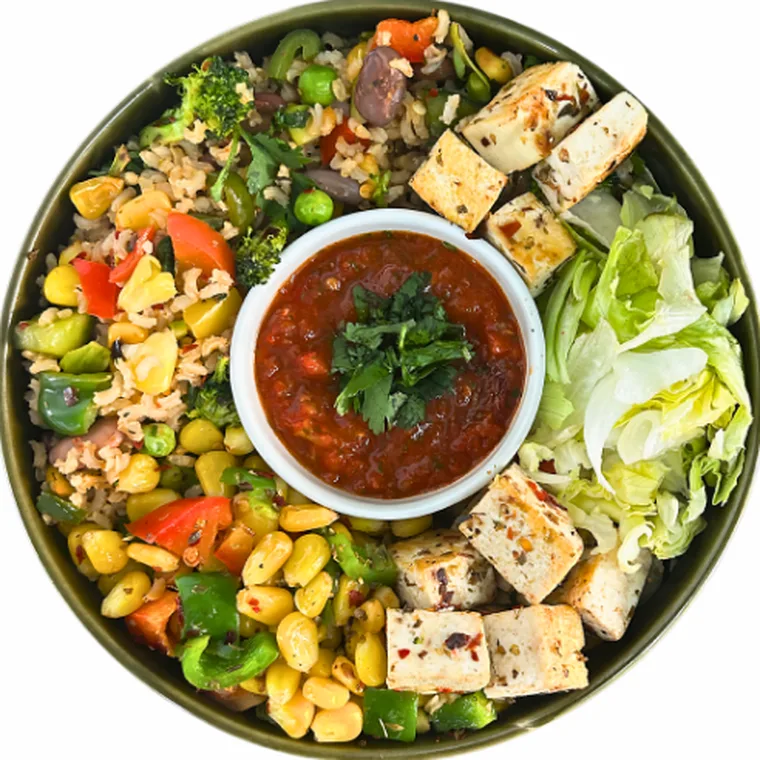
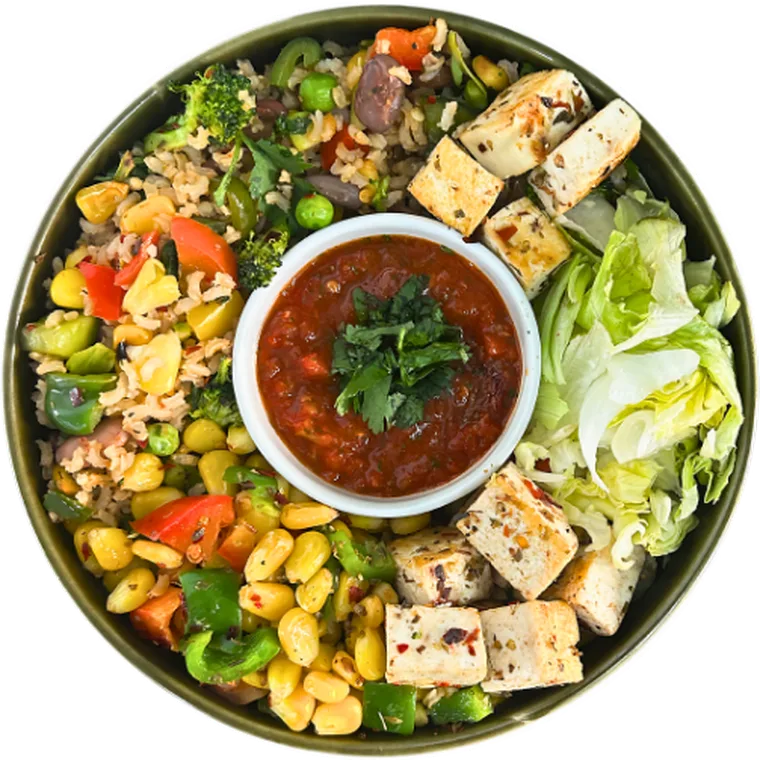
Hero + order bar: full uncut bowl, bigger dish, clean one-screen mobile
- Recrop bowl at its true edge (transparent outside) so the complete
  dish shows with no side cut and no ring.
- Enlarge dish ~+10% (desktop 462, mobile 208, tablet 264).
- Mobile: fill one screen on tall phones (Order Via now below the
  fold, no messy peek) via min-height:100dvh + centered content;
  short phones stay content-sized so the Razorpay line still fits.
- Order Via bar: hide the label on mobile and pad-right so the
  Website button clears the floating WhatsApp button (was cut).

diff --git a/index.html b/index.html
@@ -176,7 +176,7 @@
 
     .hero-visual { position: relative; z-index: 1; display: flex; align-items: center; justify-content: center; }
     .hero-img-wrap {
-      width: 420px; height: 420px; border-radius: 50%;
+      width: 462px; height: 462px; border-radius: 50%;
       background: linear-gradient(135deg, #e0f5ea 0%, #c5edda 100%);
       display: flex; align-items: center; justify-content: center;
       box-shadow: 0 40px 100px rgba(26,60,46,.18);
@@ -605,7 +605,7 @@
       .hero-btns { justify-content: center; }
       .hero-trust { justify-content: center; flex-wrap: wrap; }
       .hero-visual { order: -1; }
-      .hero-img-wrap { width: 240px; height: 240px; }
+      .hero-img-wrap { width: 264px; height: 264px; }
       .hero-spin-badge { width: 40px; height: 40px; top: 8px; right: 4px; }
       .nav-links { display: none; }
       .hamburger { display: flex; }
@@ -613,7 +613,7 @@
     }
     @media (max-width: 768px) {
       /* Hero fills the screen — everything down to the Razorpay line stays above the fold */
-      .hero { min-height: auto; padding: 6.6rem 1.5rem 2rem; gap: 0.5rem; align-content: start; box-sizing: border-box; }
+      .hero { min-height: 100dvh; min-height: 100vh; padding: 6.9rem 1.5rem 1.6rem; gap: 0.6rem; align-content: center; box-sizing: border-box; }
       .hero-img-wrap { width: 200px; height: 200px; }
       .hero h1 { font-size: clamp(2rem, 6.8vw, 2.7rem); line-height: 1.12; margin-bottom: 0.35rem; }
       .hero-sub { margin: 0.75rem auto 1rem; font-size: 0.92rem; line-height: 1.55; }
@@ -633,13 +633,14 @@
       .health-grid { grid-template-columns: 1fr; }
     }
     @media (max-width: 480px) {
-      .hero { padding: 6.6rem 1.2rem 1.8rem; min-height: auto; }
+      .hero { padding: 6.9rem 1.2rem 1.6rem; min-height: 100dvh; min-height: 100vh; }
       .hero h1 { font-size: clamp(1.85rem, 7.4vw, 2.5rem); }
-      .hero-img-wrap { width: 172px; height: 172px; }
+      .hero-img-wrap { width: 208px; height: 208px; }
       .why-grid { grid-template-columns: 1fr; }
       .menu-grid { grid-template-columns: 1fr; }
       .testi-grid { grid-template-columns: 1fr; }
-      .platform-bar { gap: 0.4rem; padding: 0.75rem 1rem; flex-wrap: nowrap; }
+      .platform-bar { gap: 0.5rem; padding: 0.75rem 1rem; padding-right: 4rem; flex-wrap: nowrap; justify-content: center; }
+      .pbar-label { display: none; }
       .pbar-label { font-size: 0.72rem; padding-right: 0.6rem; }
       .pbar-btn { padding: 0.42rem 0.7rem; font-size: 0.75rem; gap: 0.3rem; }
       .pbar-btn svg { width: 14px; height: 14px; }
@@ -647,8 +648,8 @@
     }
     /* Short phones: keep the whole hero (down to the Razorpay line) above the fold */
     @media (max-width: 768px) and (max-height: 740px) {
-      .hero { padding: 6.9rem 1.2rem 1rem; gap: 0.25rem; }
-      .hero-img-wrap { width: 146px; height: 146px; }
+      .hero { padding: 6.9rem 1.2rem 1rem; gap: 0.25rem; min-height: auto; align-content: start; }
+      .hero-img-wrap { width: 150px; height: 150px; }
       .hero-spin-badge { width: 34px; height: 34px; top: 4px; right: 2px; }
       .hero h1 { font-size: clamp(1.65rem, 6.2vw, 2.1rem); line-height: 1.1; margin-bottom: 0.2rem; }
       .hero-sub { margin: 0.5rem auto 0.75rem; font-size: 0.85rem; line-height: 1.45; }
